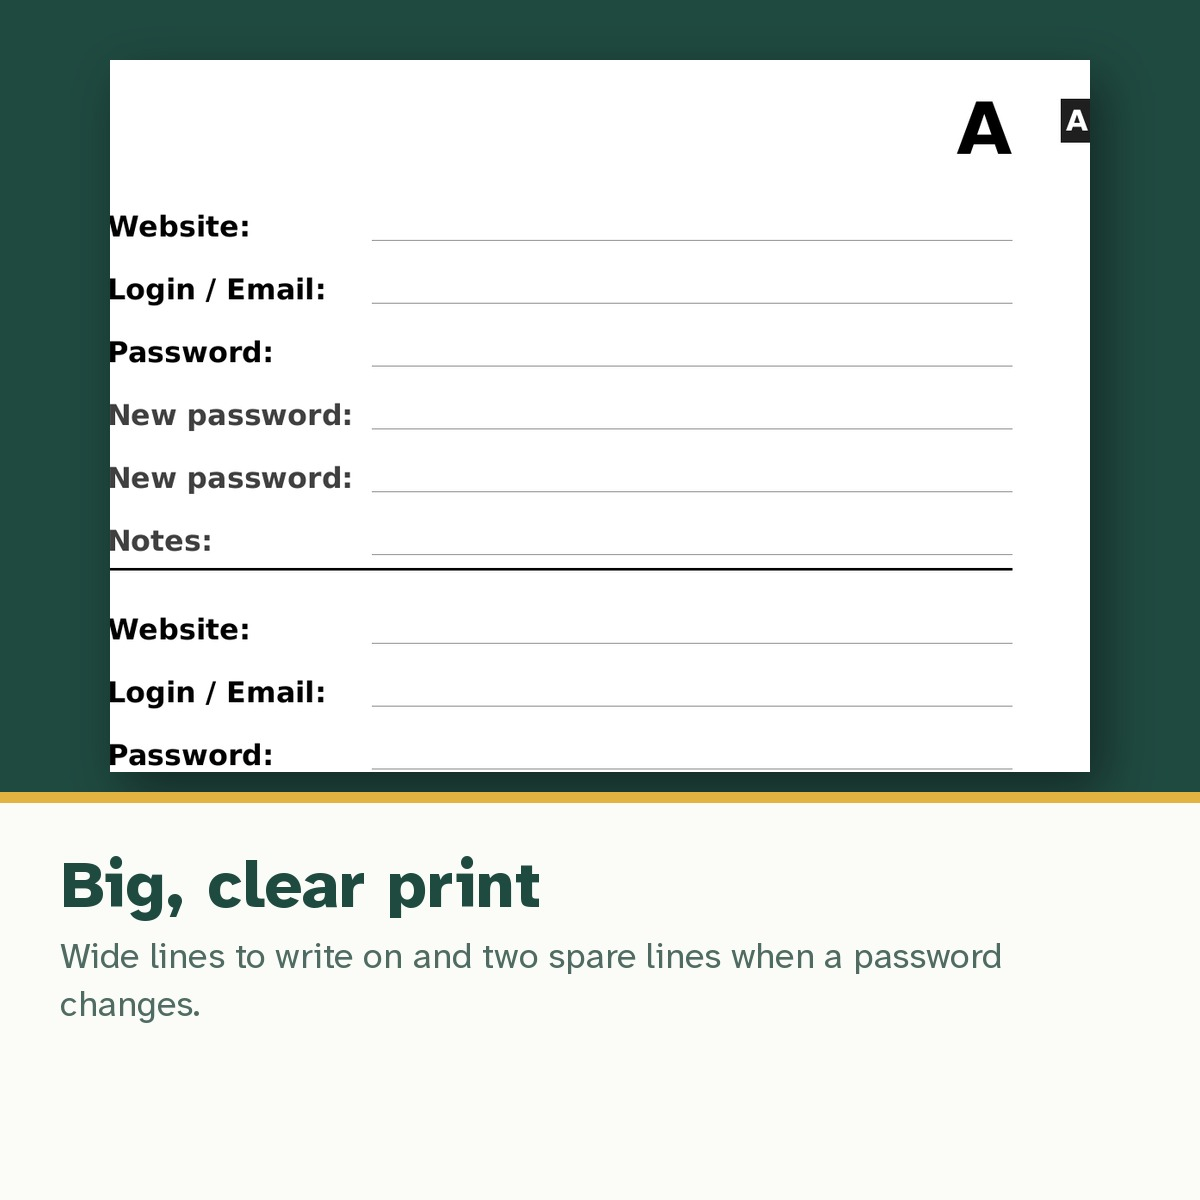
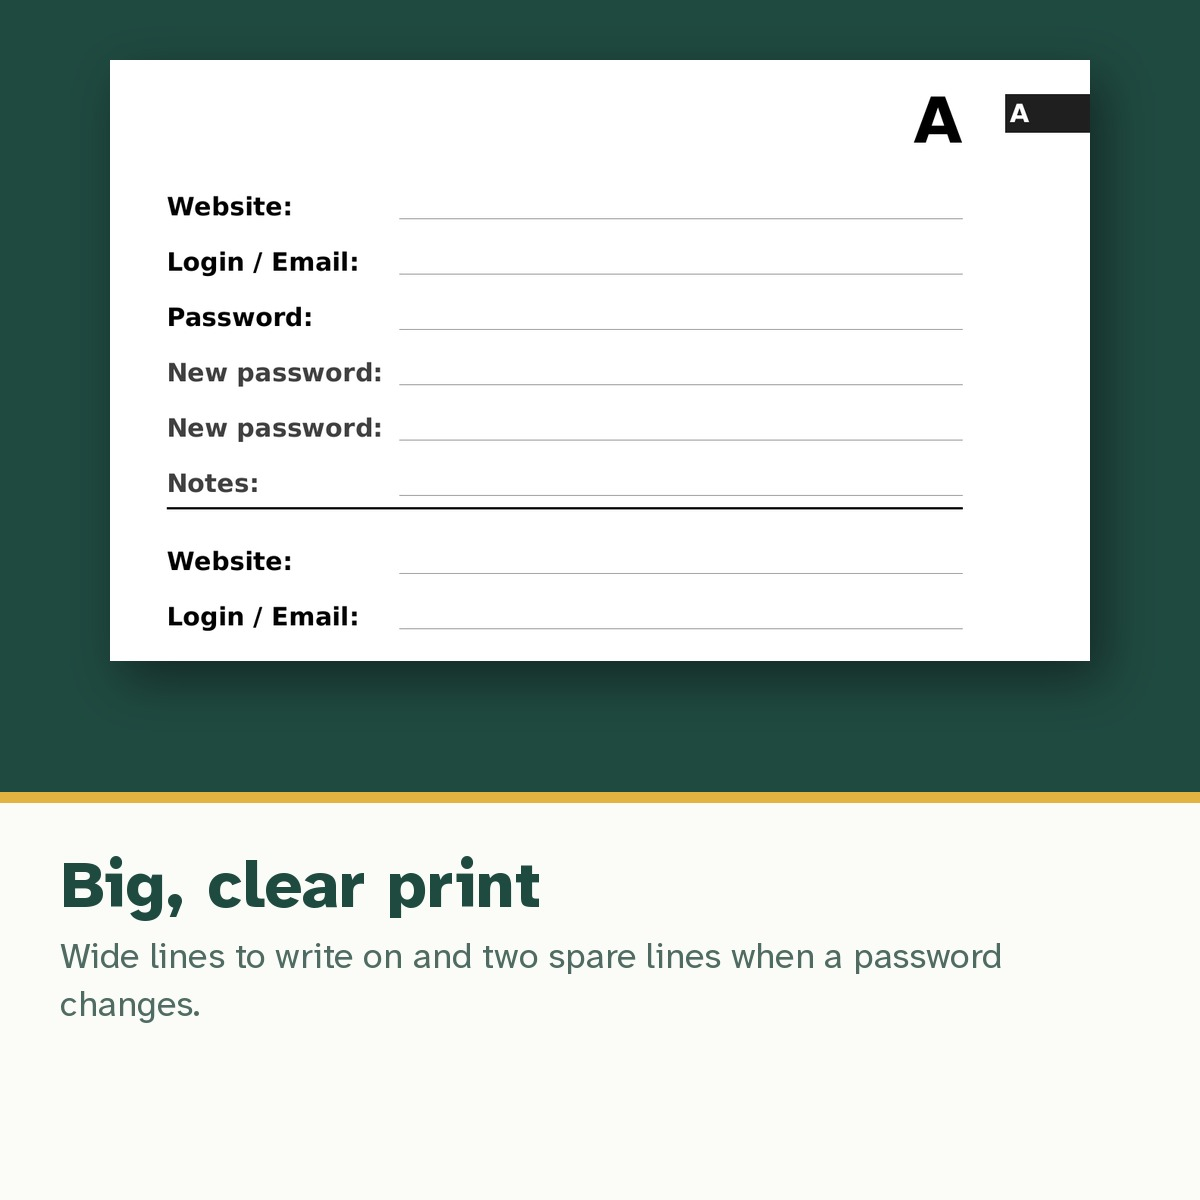
Password A+: kwadrat 2a bez uciętych etykiet
Claude-Session: https://claude.ai/code/session_01UJfvBjetqTTvtRcX3WpVDp

Changed region(s): [[0.0925, 0.1542, 0.925, 0.6475], [0.3392, 0.4625, 0.8017, 0.4933], [0.74, 0.0617, 0.925, 0.1233]]

diff --git a/books/password-log-book/aplus/make_aplus.py b/books/password-log-book/aplus/make_aplus.py
@@ -85,7 +85,7 @@ def main():
 
     # 2. trzy kwadraty 1200 × 1200
     bg = Image.new("RGB", (1200, 1200), GROUND)
-    caption_square(bg, a1, (0.06, 0.03, 0.94, 0.52), "Big, clear print",
+    caption_square(bg, a1, (0.0, 0.03, 1.0, 0.5), "Big, clear print",
                    "Wide lines to write on and two spare lines when a password changes.",
                    TEXT, GROUND, "#4F6B62", BRASS).save(OUT / "2a_square_large_print_1200.jpg", quality=92)
     fore_edge().save(OUT / "2b_square_az_edge_1200.jpg", quality=92)
